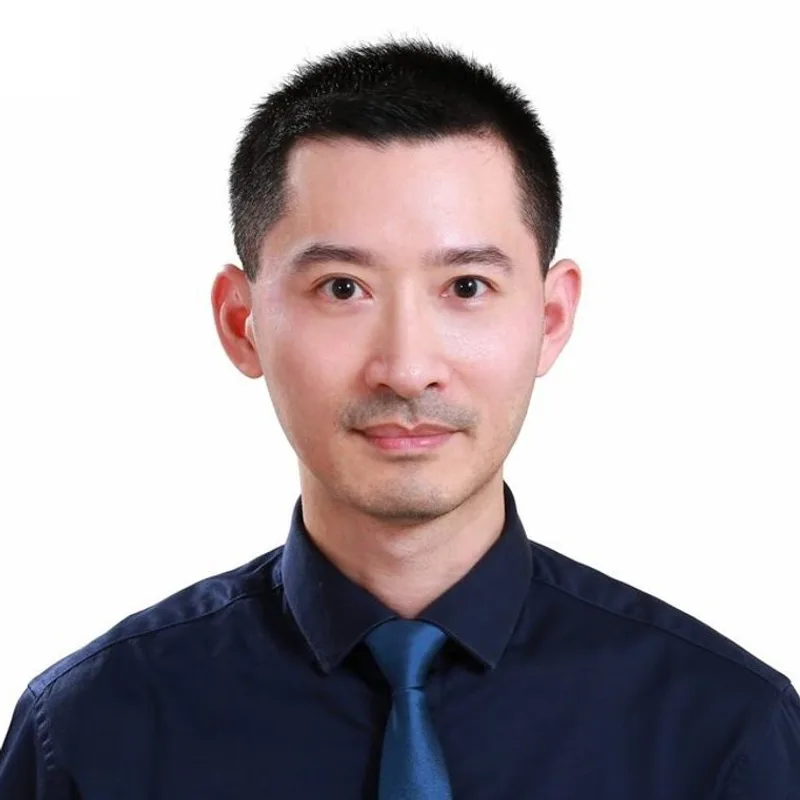
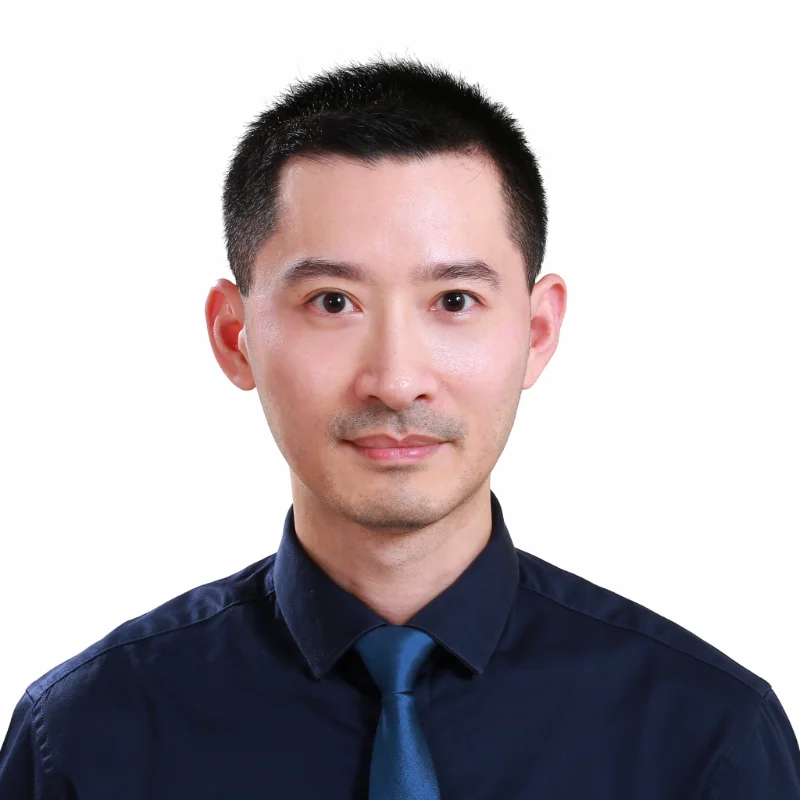
fix: use supplied Frank Chuang portrait

Changed region(s): [[0.0, 0.0312, 1.0, 1.0]]

diff --git a/content.js b/content.js
@@ -639,8 +639,8 @@ window.JUDGES = [
     nameEn: "Frank Chuang",
     affiliationZh: "國立政治大學資訊管理學系｜助理教授",
     affiliationEn: "Assistant Professor, Department of Management Information Systems, National Chengchi University",
-    imageJpg: "assets/judges/frank-chuang.jpg?v=5",
-    imageWebp: "assets/judges/frank-chuang.webp?v=5",
+    imageJpg: "assets/judges/frank-chuang.jpg?v=6",
+    imageWebp: "assets/judges/frank-chuang.webp?v=6",
     alt: { "zh-Hant": "莊豐源 照片", en: "Portrait of Frank Chuang" }
   },
   {
